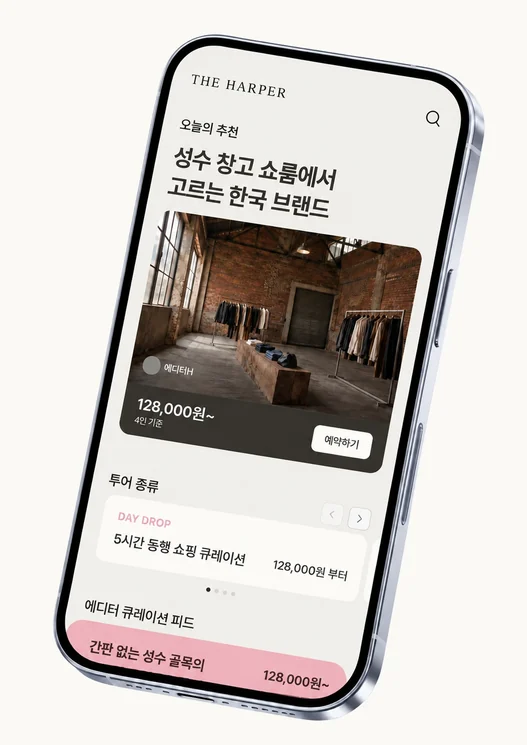
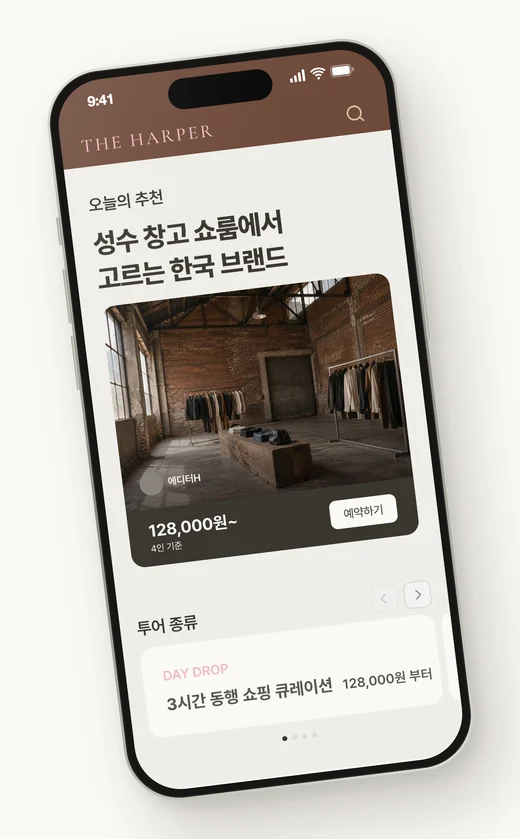
히어로 폰 목업 교체: iPhone 15 Pro 프레임(티타늄 테두리·다이내믹 아일랜드·상태 바)에 앱 홈 화면을 넣어 직접 렌더링, 살짝 기울인 정면 구도에 부드러운 그림자

diff --git a/index.html b/index.html
@@ -18,7 +18,7 @@
   <link rel="apple-touch-icon" href="src/assets/apple-touch-icon.png?v=1">
 
   <link rel="stylesheet" href="https://cdnjs.cloudflare.com/ajax/libs/leaflet/1.9.4/leaflet.min.css" />
-  <link rel="preload" as="image" href="src/assets/hero-phone-1045.webp?v=2" imagesrcset="src/assets/hero-phone-520.webp?v=2 520w, src/assets/hero-phone-1045.webp?v=2 1045w" imagesizes="(max-width: 900px) 100vw, 46vw" fetchpriority="high">
+  <link rel="preload" as="image" href="src/assets/hero-phone-1045.webp?v=3" imagesrcset="src/assets/hero-phone-520.webp?v=3 520w, src/assets/hero-phone-1045.webp?v=3 1045w" imagesizes="(max-width: 900px) 100vw, 46vw" fetchpriority="high">
   <link rel="stylesheet" href="src/styles/site.css?v=15">
   <title data-i18n="site-title">더하퍼 — K-패션 에디터 큐레이션, 서울</title>
 </head>
@@ -96,7 +96,7 @@
         </div>
 
         <div class="hero__visual">
-          <img class="hero__phone" src="src/assets/hero-phone-1045.webp?v=2" srcset="src/assets/hero-phone-520.webp?v=2 520w, src/assets/hero-phone-1045.webp?v=2 1045w" sizes="(max-width: 900px) 100vw, 46vw" alt="THE HARPER 앱 홈 화면이 보이는 휴대전화" width="1055" height="1491" fetchpriority="high" decoding="async">
+          <img class="hero__phone" src="src/assets/hero-phone-1045.webp?v=3" srcset="src/assets/hero-phone-520.webp?v=3 520w, src/assets/hero-phone-1045.webp?v=3 1045w" sizes="(max-width: 900px) 100vw, 46vw" alt="THE HARPER 앱 홈 화면이 보이는 휴대전화" width="1045" height="1686" fetchpriority="high" decoding="async">
         </div>
 
         <div class="hero__foot">
